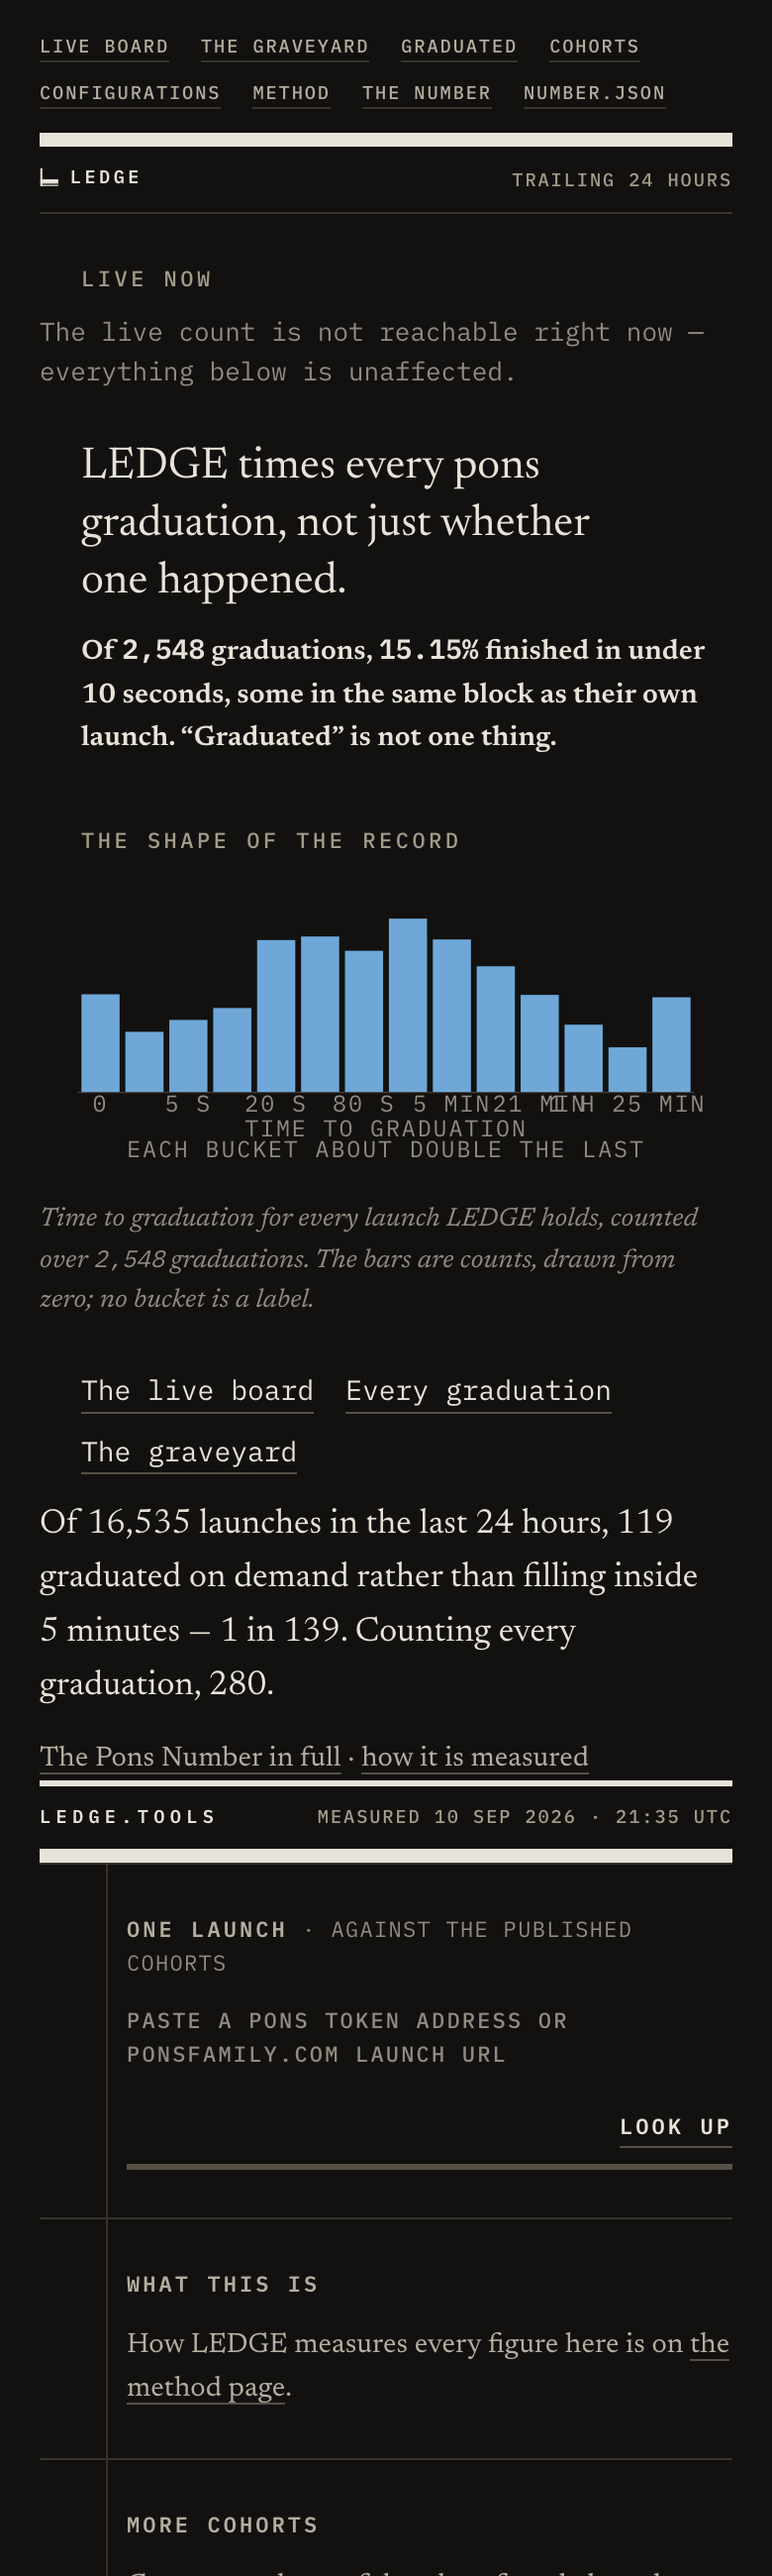
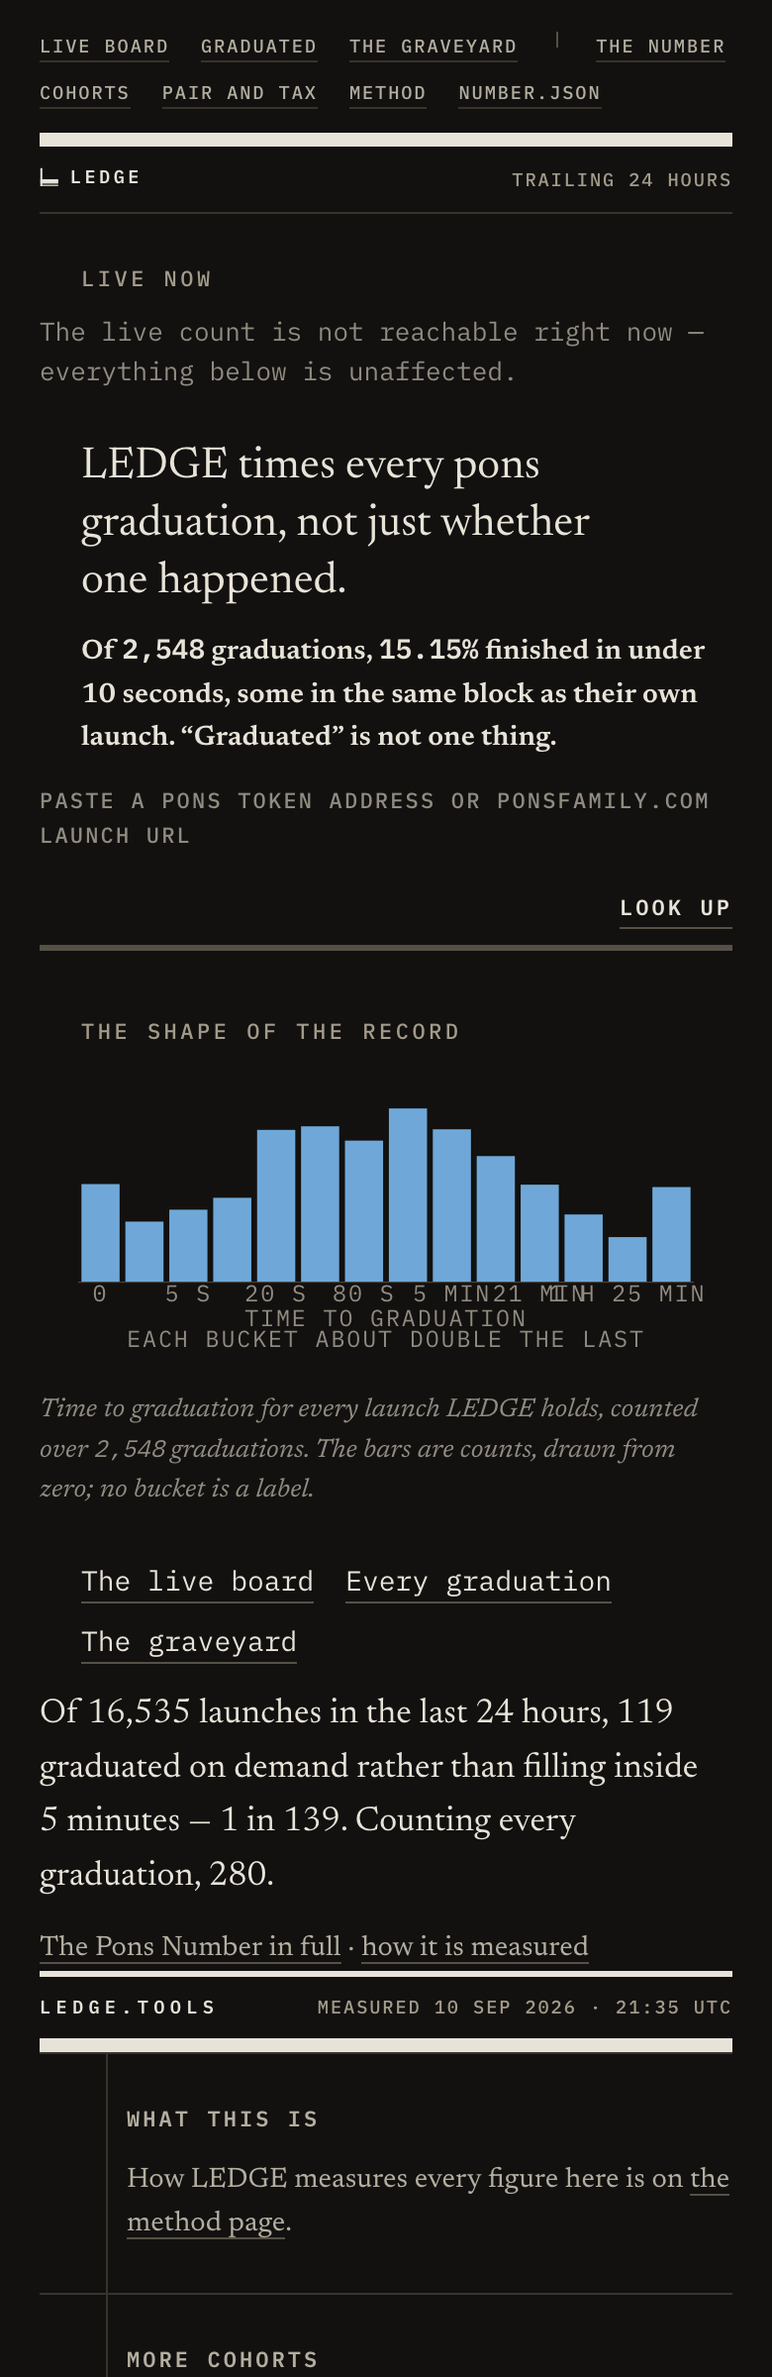
Put the lookup above the proof, where the decision is made

Changed region(s): [[0.0308, 0.0, 0.9538, 1.0], [0.7077, 0.125, 0.7692, 0.1562], [0.8308, 0.125, 0.8615, 0.1562]]

diff --git a/site/app/page.tsx b/site/app/page.tsx
@@ -151,6 +151,20 @@ const exFastOneIn =
           </p>
         </div>
 
+        {/* The only decision anyone makes here, so it sits where it can be
+            reached without scrolling.
+
+            It was halfway down the page, under a heading, beneath the proof and
+            the paths. Browsing the board is not a decision and reading the
+            evidence is not a decision; pasting an address to find out whether a
+            specific token has anything behind it is, and it is what a person
+            arriving from a group chat already has in their clipboard. One input
+            costs almost no vertical space, and putting it above the proof puts
+            the action before the argument for it. */}
+        <section className="lookup-lead" id="h-lookup">
+          <Lookup />
+        </section>
+
         <div className="shape-lead">
           <h2 className="kicker">The shape of the record</h2>
           <Shape
@@ -193,10 +207,6 @@ const exFastOneIn =
           </p>
         </section>
         <ColophonStrip stamp={formatStamp(crawledAt)} />
-
-        <LedgerEntry id="h-lookup" heading="One launch" headingNote="· against the published cohorts">
-          <Lookup />
-        </LedgerEntry>
 
         {/* The ~150-word entry this used to be named our own constraints back at a
             reader who does not care what we refuse to do (design critique,

diff --git a/site/tests/landing-copy.test.ts b/site/tests/landing-copy.test.ts
@@ -113,14 +113,18 @@ describe("the sheet, without folio numbers", () => {
     expect([...PAGE.matchAll(/folio="(\d{2})"/g)].map((m) => m[1])).toEqual([]);
   });
 
-  it("runs the pulse, the capability, the shape, the paths, then the rate and the lookup", () => {
+  /* The lookup moved above the proof on 2026-09-11. Pasting an address is the
+     only decision this page offers, and it was sitting under a heading halfway
+     down, beneath the chart and the paths. The action now comes before the
+     argument for it. */
+  it("runs the pulse, the capability, the lookup, then the proof, the paths and the rate", () => {
     const order = [
       "<LivePulse",
       'className="capability"',
+      'className="lookup-lead"',
       'className="shape-lead"',
       'className="paths-on"',
       'className="headline-rate"',
-      "h-lookup",
     ].map((marker) => PAGE.indexOf(marker));
     expect(order.every((i) => i >= 0)).toBe(true);
     expect(order).toEqual([...order].sort((a, b) => a - b));

diff --git a/site/app/globals.css b/site/app/globals.css
@@ -1442,6 +1442,13 @@ footer {
    without the flash, which still reads correctly as a live indicator. */
 /* Separates what a reader browses from how we know it. A rule rather than a
    heading: it groups the nav without adding two more words to read. */
+/* The lookup, promoted out of the register and up under the claim. Held to
+   the same measure as the prose so it reads as part of the fold rather than as
+   a control bolted onto it. */
+.lookup-lead {
+  margin: var(--s-5) 0 var(--s-6);
+}
+
 .sheet-nav-split {
   display: inline-block;
   width: 1px;
